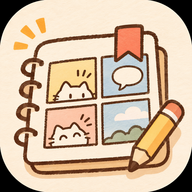
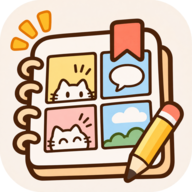
style: 透過アイコンと猫の待機画面を反映

diff --git a/index.html b/index.html
@@ -32,8 +32,9 @@
 
       #startup-fallback img {
         display: block;
-        width: 76px;
-        height: 76px;
+        width: 200px;
+        max-width: 100%;
+        height: auto;
       }
 
       #startup-fallback h1 {
@@ -45,10 +46,36 @@
       }
 
       #startup-fallback-status {
-        display: block;
+        display: flex;
+        align-items: center;
+        gap: 9px;
         margin: 0;
         color: #6f6f6f;
         font-size: 13px;
+      }
+
+      #startup-fallback-indicator {
+        box-sizing: border-box;
+        width: 15px;
+        height: 15px;
+        border: 2px solid #e4e4e4;
+        border-top-color: #252525;
+        border-radius: 50%;
+        animation: startup-fallback-spin 900ms linear infinite;
+      }
+
+      @keyframes startup-fallback-spin {
+        to {
+          transform: rotate(1turn);
+        }
+      }
+
+      @media (prefers-reduced-motion: reduce) {
+        #startup-fallback-indicator {
+          animation: none;
+          border-color: #858585;
+          border-top-color: #252525;
+        }
       }
     </style>
   </head>
@@ -56,9 +83,12 @@
     <div id="root">
       <div id="startup-fallback">
         <div id="startup-fallback-content">
-          <img src="/icon-192.png" alt="" width="76" height="76" />
+          <img src="/cat-mascot.png" alt="" width="480" height="363" />
           <h1>漫画日記</h1>
-          <output id="startup-fallback-status" aria-live="polite">準備中…</output>
+          <output id="startup-fallback-status" aria-live="polite">
+            <span id="startup-fallback-indicator" aria-hidden="true"></span>
+            準備中…
+          </output>
         </div>
       </div>
     </div>

diff --git a/src/client/features/home/Home.tsx b/src/client/features/home/Home.tsx
@@ -4,7 +4,6 @@ import { Link, useLocation, useNavigate } from 'react-router';
 import type { Entry } from '../../../shared/schemas';
 import { pageComic, sampleDiary } from '../../../shared/fixtures';
 import { summarizeDiary } from '../../../shared/summary';
-import catSleeping from '../../../../design/assets/cat_sleeping.svg?url';
 import { Comic } from '../comic/Comic';
 import { EntryHistory } from '../library/EntryHistory';
 import { EntryThumbnail, useEntryPreview } from '../library/EntryPreview';
@@ -252,7 +251,7 @@ export function Home({
         ) : (
           <div className="today-empty-card">
             <p>今日はまだ記録がありません</p>
-            <img src={catSleeping} alt="丸くなって眠る猫" width="148" height="100" />
+            <img src="/cat-mascot.png" alt="" width={480} height={363} />
             <Link className="today-write-link" to="/new">
               <Icon name="plus" size={20} />
               <span>日記を書く</span>

diff --git a/tests/pwa-preview.spec.ts b/tests/pwa-preview.spec.ts
@@ -41,6 +41,7 @@ test('production previewは公開用静的ファイルだけをcacheし、offlin
   expect(cachedPaths).toContain('/manifest.webmanifest');
   expect(cachedPaths).toContain('/icon-192.png');
   expect(cachedPaths).toContain('/icon-512.png');
+  expect(cachedPaths).toContain('/cat-mascot.png');
   expect(cachedPaths).toContain('/sample-comic.svg');
   expect(cachedPaths.some((path) => /^\/assets\/.+\.js$/.test(path))).toBe(true);
   expect(cachedPaths.some((path) => /^\/assets\/.+\.css$/.test(path))).toBe(true);
@@ -52,6 +53,7 @@ test('production previewは公開用静的ファイルだけをcacheし、offlin
           '/manifest.webmanifest',
           '/icon-192.png',
           '/icon-512.png',
+          '/cat-mascot.png',
           '/sample-comic.svg',
         ].includes(path) || /^\/assets\/.+\.(?:js|css)$/.test(path),
     ),

diff --git a/src/client/app/StartupScreen.tsx b/src/client/app/StartupScreen.tsx
@@ -4,7 +4,13 @@ export function StartupScreen() {
   return (
     <section className="startup-screen" aria-busy="true" aria-labelledby="startup-screen-name">
       <div className="startup-screen__content">
-        <img className="startup-screen__mark" src="/icon-192.png" alt="" />
+        <img
+          className="startup-screen__mark"
+          src="/cat-mascot.png"
+          alt=""
+          width={480}
+          height={363}
+        />
         <h1 id="startup-screen-name" className="startup-screen__name">
           漫画日記
         </h1>

diff --git a/vite.config.ts b/vite.config.ts
@@ -46,7 +46,7 @@ export default defineConfig({
         ],
       },
       workbox: {
-        globPatterns: ['index.html', 'assets/**/*.{js,css}', 'sample-comic.svg'],
+        globPatterns: ['index.html', 'assets/**/*.{js,css}', 'sample-comic.svg', 'cat-mascot.png'],
         navigateFallback: '/index.html',
         navigateFallbackDenylist: [/^\/api(?:\/|$)/],
         skipWaiting: false,

diff --git a/src/client/style.css b/src/client/style.css
@@ -293,9 +293,9 @@ p {
 }
 
 .today-empty-card > img {
-  width: 180px;
-  height: 120px;
-  object-fit: contain;
+  width: 190px;
+  max-width: 100%;
+  height: auto;
 }
 
 .today-write-link {

diff --git a/src/client/app/StartupScreen.css b/src/client/app/StartupScreen.css
@@ -26,8 +26,10 @@
 }
 
 .startup-screen__mark {
-  width: 76px;
-  height: 76px;
+  display: block;
+  width: 200px;
+  max-width: 100%;
+  height: auto;
 }
 
 .startup-screen__name {
